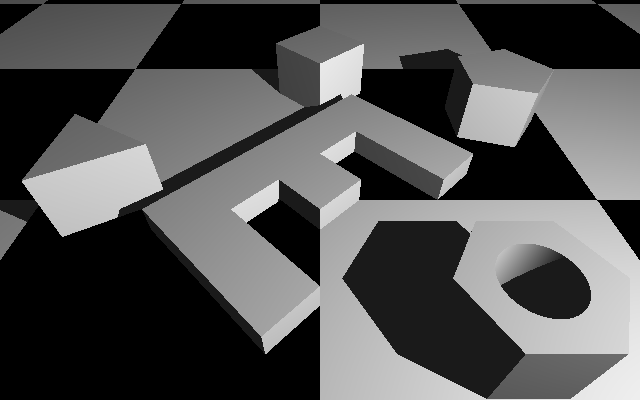
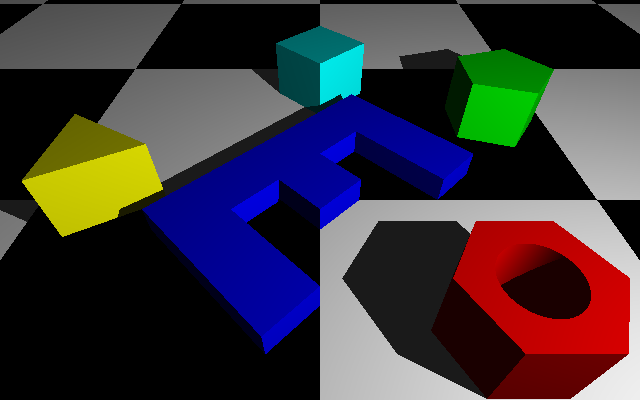
Group: modifiy shapes material

diff --git a/ray-tracer-demos/PrismMeshScene.cs b/ray-tracer-demos/PrismMeshScene.cs
@@ -25,12 +25,18 @@ namespace ray_tracer_demos
             DefaultFloor();
             Light(1, 1, -1);
 
-            Add(new Prism(BuildPolygon(3)).Scale(0.2, 0.25, 0.2).Translate(tx: -0.75, tz: 0));
-            Add(new Prism(BuildPolygon(4)).Scale(0.2, 0.25, 0.2).Translate(tx: -0, tz: 0.75));
-            Add(new Prism(BuildPolygon(5)).Scale(0.2, 0.25, 0.2).Translate(tx: 0.75, tz: 0.5));
-            var hex = new Prism(BuildPolygon(6));
-            var diff = new CsgDifference(hex, new Cylinder().Scale(0.5));
-            Add(diff.Scale(0.2, 0.25, 0.2).Translate(tx: 0.5, tz: -0.5));
+            var poly3 = new Prism(BuildPolygon(3)).Scale(0.2, 0.25, 0.2).Translate(tx: -0.75, tz: 0);
+            var poly4 = new Prism(BuildPolygon(4)).Scale(0.2, 0.25, 0.2).Translate(tx: -0, tz: 0.75);
+            var poly5 = new Prism(BuildPolygon(5)).Scale(0.2, 0.25, 0.2).Translate(tx: 0.75, tz: 0.5);
+            var poly6 = new CsgDifference( new Prism(BuildPolygon(6)), new Cylinder().Scale(0.5));
+            poly6.Scale(0.2, 0.25, 0.2).Translate(tx: 0.5, tz: -0.5);
+
+            poly3.Material = new Material(new SolidPattern(Color._Green+Color._Red));
+            poly4.Material = new Material(new SolidPattern(Color._Green+Color._Blue));
+            poly5.Material = new Material(new SolidPattern(Color._Green));
+            poly6.Material = new Material(new SolidPattern(Color._Red));
+
+            Add(poly3, poly4, poly5, poly6);
 
             IEnumerable<Point2D> points = new[]
             {
@@ -50,6 +56,7 @@ namespace ray_tracer_demos
             }.Reverse();
 
             var letterE = new Prism(points);
+            letterE.Material = new Material(new SolidPattern(Color._Blue));
             Add(letterE.Scale(0.1).Rotate(ry: Math.PI/4));
         }
 

diff --git a/ray-tracer/AbstractShape.cs b/ray-tracer/AbstractShape.cs
@@ -8,7 +8,7 @@ namespace ray_tracer
         public int Id { get; } = Interlocked.Increment(ref id); 
         public Matrix Transform { get; set; } = Matrix.Identity;
         public IShape Parent { get; set; }
-        public Material Material { get; set; } = new Material();
+        public virtual Material Material { get; set; } = new Material();
 
         public abstract void IntersectLocal(ref Tuple origin, ref Tuple direction, Intersections intersections);
         public abstract Tuple NormalAtLocal(Tuple worldPoint, Intersection hit=null);

diff --git a/ray-tracer/Shapes/Group.cs b/ray-tracer/Shapes/Group.cs
@@ -13,6 +13,20 @@ namespace ray_tracer.Shapes
         public IShape this[int i] => Shapes[i];
         public int Count => Shapes.Count;
         
+        private Material material;
+
+        public override Material Material
+        {
+            get => material;
+            set {
+                material = value;
+                foreach (var shape in Shapes)
+                {
+                    shape.Material = material;
+                }
+            }
+        }
+ 
         public override Bounds Box
         {
             get

diff --git a/ray-tracer/Shapes/Prism.cs b/ray-tracer/Shapes/Prism.cs
@@ -41,6 +41,5 @@ namespace ray_tracer.Shapes
 
             return group;
         }
-
-    }
+   }
 }
